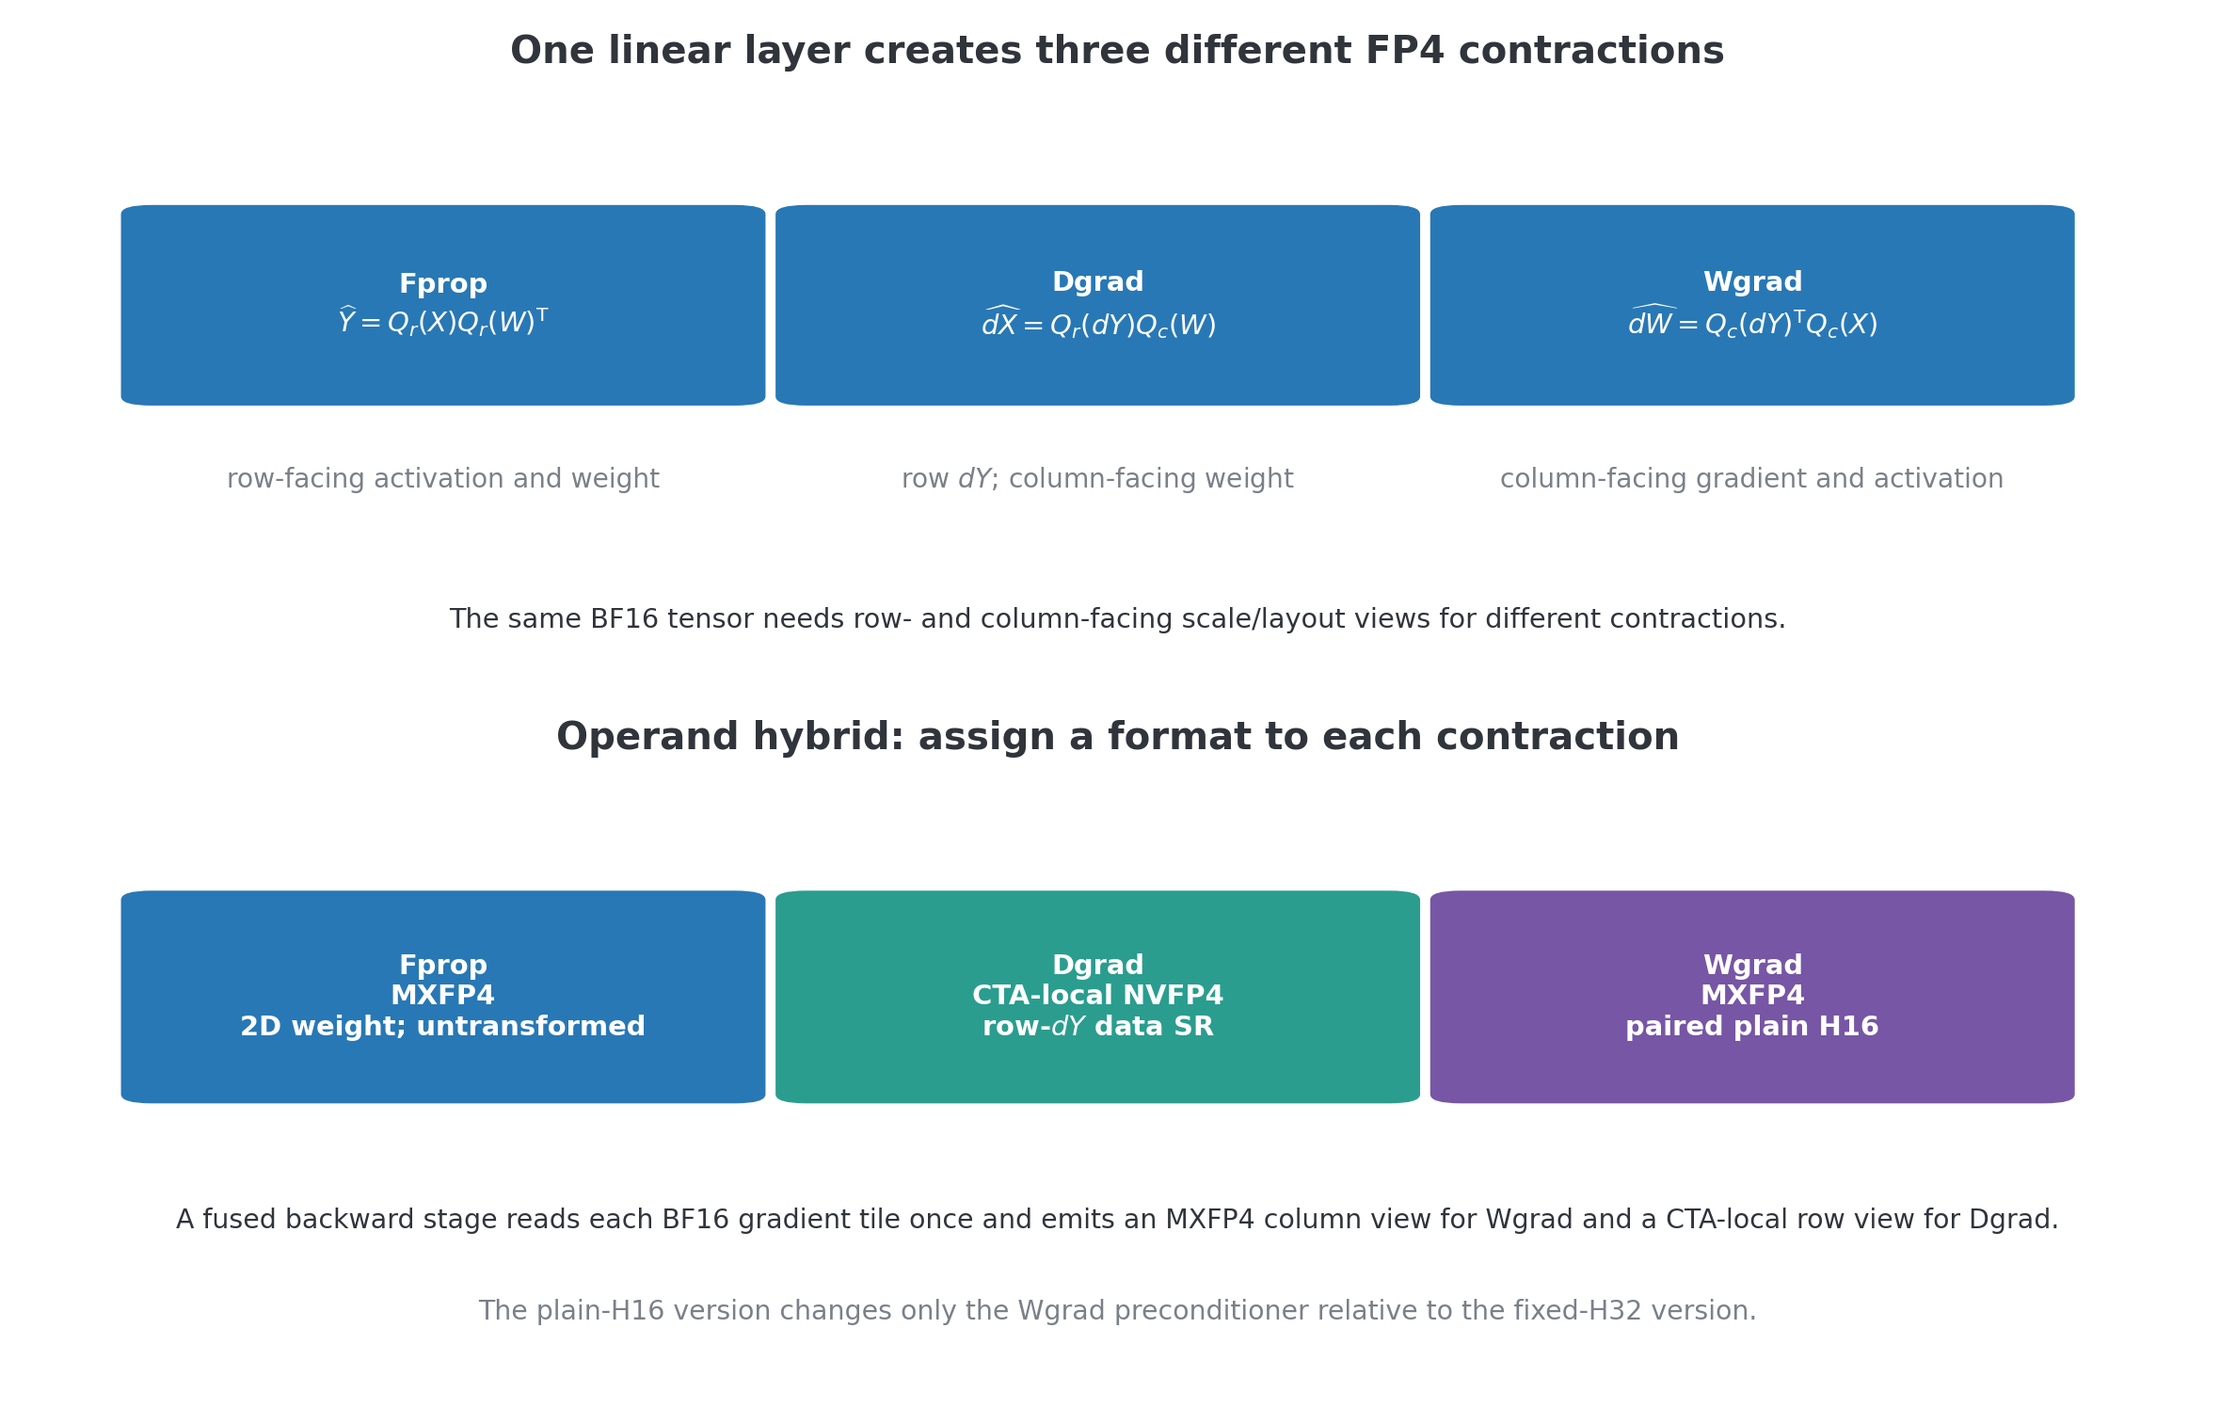
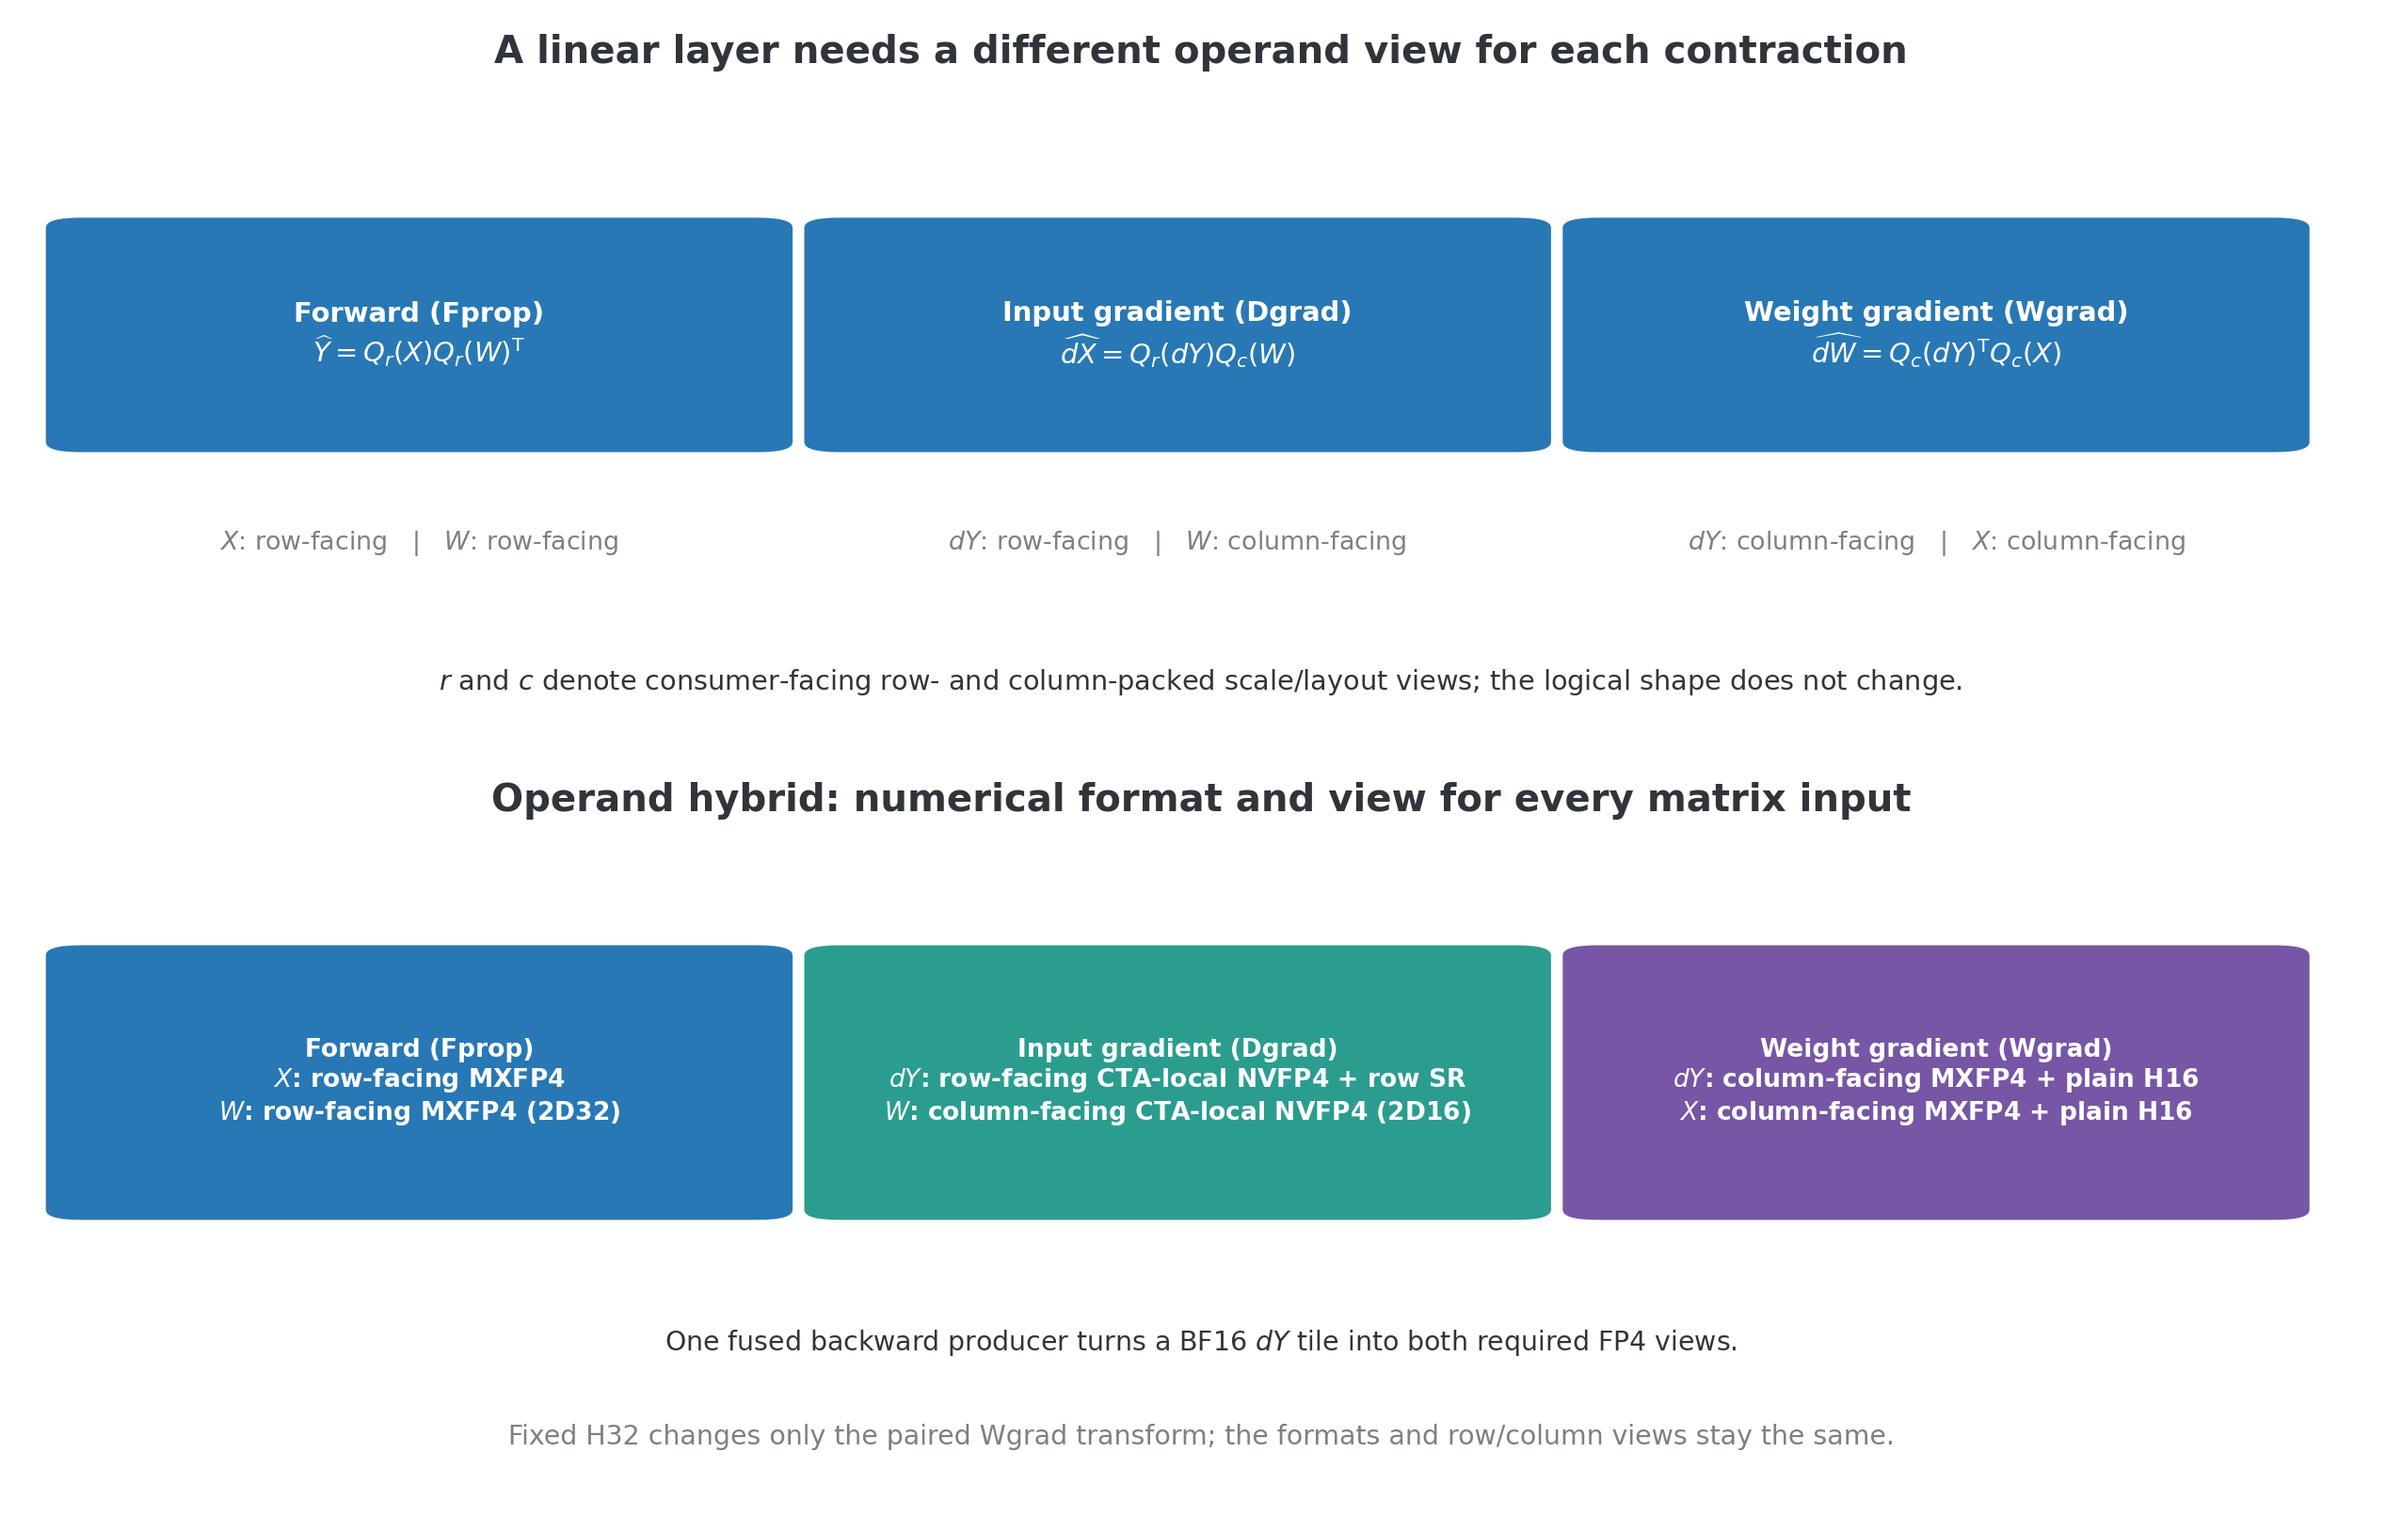
Clarify operand hybrid formats in report figure

diff --git a/docs/technical_report/figures/make_report_figures.py b/docs/technical_report/figures/make_report_figures.py
@@ -262,51 +262,92 @@ def make_format_execution_routes() -> None:
 
 def make_linear_operand_map() -> None:
     """Map quantized operands to Fprop, Dgrad, and Wgrad."""
-    fig, axes = plt.subplots(2, 1, figsize=(10.8, 6.8))
+    fig, axes = plt.subplots(2, 1, figsize=(11.6, 7.4))
     top, bottom = axes
     for ax in axes:
         ax.set_xlim(0, 1)
         ax.set_ylim(0, 1)
         ax.axis("off")
 
-    top.set_title("One linear layer creates three different FP4 contractions")
+    top.set_title("A linear layer needs a different operand view for each contraction")
     columns = [
-        (0.02, "Fprop", "$\\widehat{Y}=Q_r(X)Q_r(W)^{\\mathsf{T}}$", "row-facing activation and weight"),
-        (0.345, "Dgrad", "$\\widehat{dX}=Q_r(dY)Q_c(W)$", "row $dY$; column-facing weight"),
-        (0.67, "Wgrad", "$\\widehat{dW}=Q_c(dY)^{\\mathsf{T}}Q_c(X)$", "column-facing gradient and activation"),
+        (
+            0.02,
+            "Forward (Fprop)",
+            "$\\widehat{Y}=Q_r(X)Q_r(W)^{\\mathsf{T}}$",
+            "$X$: row-facing   |   $W$: row-facing",
+        ),
+        (
+            0.345,
+            "Input gradient (Dgrad)",
+            "$\\widehat{dX}=Q_r(dY)Q_c(W)$",
+            "$dY$: row-facing   |   $W$: column-facing",
+        ),
+        (
+            0.67,
+            "Weight gradient (Wgrad)",
+            "$\\widehat{dW}=Q_c(dY)^{\\mathsf{T}}Q_c(X)$",
+            "$dY$: column-facing   |   $X$: column-facing",
+        ),
     ]
     for x, title, equation, note in columns:
-        _box(top, x, 0.48, 0.29, 0.30, title + "\n" + equation, BLUE)
-        top.text(x + 0.145, 0.33, note, ha="center", fontsize=9.2, color=MID)
+        _box(top, x, 0.46, 0.29, 0.32, title + "\n" + equation, BLUE)
+        top.text(x + 0.145, 0.30, note, ha="center", fontsize=8.8, color=MID)
     top.text(
         0.50,
-        0.10,
-        "The same BF16 tensor needs row- and column-facing scale/layout views for different contractions.",
+        0.09,
+        "$r$ and $c$ denote consumer-facing row- and column-packed scale/layout views; the logical shape does not change.",
         ha="center",
         fontsize=9.4,
         color=DARK,
     )
 
-    bottom.set_title("Operand hybrid: assign a format to each contraction")
+    bottom.set_title("Operand hybrid: numerical format and view for every matrix input")
     hybrid = [
-        (0.02, "Fprop", "MXFP4\n2D weight; untransformed", BLUE),
-        (0.345, "Dgrad", "CTA-local NVFP4\nrow-$dY$ data SR", TEAL),
-        (0.67, "Wgrad", "MXFP4\npaired plain H16", PURPLE),
+        (
+            0.02,
+            "Forward (Fprop)",
+            "$X$: row-facing MXFP4\n$W$: row-facing MXFP4 (2D32)",
+            BLUE,
+        ),
+        (
+            0.345,
+            "Input gradient (Dgrad)",
+            "$dY$: row-facing CTA-local NVFP4 + row SR\n"
+            "$W$: column-facing CTA-local NVFP4 (2D16)",
+            TEAL,
+        ),
+        (
+            0.67,
+            "Weight gradient (Wgrad)",
+            "$dY$: column-facing MXFP4 + plain H16\n"
+            "$X$: column-facing MXFP4 + plain H16",
+            PURPLE,
+        ),
     ]
     for x, title, body, color in hybrid:
-        _box(bottom, x, 0.46, 0.29, 0.32, title + "\n" + body, color)
+        _box(
+            bottom,
+            x,
+            0.43,
+            0.29,
+            0.38,
+            title + "\n" + body,
+            color,
+            font_size=8.7,
+        )
     bottom.text(
         0.50,
-        0.24,
-        "A fused backward stage reads each BF16 gradient tile once and emits an MXFP4 column view for Wgrad and a CTA-local row view for Dgrad.",
+        0.22,
+        "One fused backward producer turns a BF16 $dY$ tile into both required FP4 views.",
         ha="center",
         fontsize=9.3,
         color=DARK,
     )
     bottom.text(
         0.50,
-        0.09,
-        "The plain-H16 version changes only the Wgrad preconditioner relative to the fixed-H32 version.",
+        0.08,
+        "Fixed H32 changes only the paired Wgrad transform; the formats and row/column views stay the same.",
         ha="center",
         fontsize=9.3,
         color=MID,

diff --git a/docs/technical_report/sections/02_formats.tex b/docs/technical_report/sections/02_formats.tex
@@ -349,12 +349,17 @@ column-facing representations to the three contractions.
 \begin{figure}[H]
   \centering
   \includegraphics[width=0.97\textwidth]{figures/fp4_linear_operand_hybrid.png}
-  \caption{Contraction-specific layouts and the plain-H16 operand-wise hybrid.
-  Top: Fprop, Dgrad, and Wgrad require distinct row- and column-facing views.
-  Bottom: the hybrid assigns MXFP4 to Fprop/Wgrad and CTA-local NVFP4 with
-  row-$dY$ SR to Dgrad; one fused backward stage emits both representations
-  from the BF16 gradient tile. Plain H16 uses no sign flips. The fixed-H32 variant
-  keeps this format map and changes only the paired Wgrad preconditioner.}
+  \caption{Formats and packed views for the plain-H16 operand hybrid. Here
+  $r$ and $c$ denote the consumer-facing row- and column-packed scale/layout
+  representations; they do not change a tensor's logical shape. Top: Fprop
+  consumes row-facing $X$ and $W$, Dgrad consumes row-facing $dY$ and
+  column-facing $W$, and Wgrad consumes column-facing $dY$ and $X$. Bottom:
+  Fprop uses MXFP4 $X_r$ and 2D32 $W_r$; Dgrad uses CTA-local NVFP4
+  $dY_r$ with row stochastic rounding (SR) and 2D16 $W_c$; Wgrad uses MXFP4
+  $dY_c$ and $X_c$ with paired plain-H16 preconditioning. One fused backward
+  producer emits both $dY$ representations from the BF16 tile. Wgrad does not
+  read $W$ because it produces $dW$. Plain H16 has no sign flips; fixed H32
+  changes only the paired Wgrad preconditioner.}
   \label{fig:linear-operand-map}
 \end{figure}
 \FloatBarrier

diff --git a/docs/technical_report/sections/05_results.tex b/docs/technical_report/sections/05_results.tex
@@ -79,9 +79,7 @@ display-only fit described below.
   observations recorded at the same step as BF16. The dashed
   custom-global-\nvfp{} line is a smoothed visual guide through those sparse
   observations, not additional measurements. Appendix~\ref{app:reproducibility}
-  records the surviving data sources. The 27/5 depth hybrid
-  joins three logged training segments at exact checkpoint boundaries, with
-  no interpolated values.}
+  records the surviving data sources.}
   \label{fig:llama8b-loss}
 \end{figure}
 
@@ -92,8 +90,7 @@ the late loss separation at the same scale without extrapolating any route.
   \centering
   \includegraphics[width=0.98\textwidth]{figures/llama8b_160b_training_loss_zoom.png}
   \caption{Training loss from 120B to 160B tokens. Diamonds mark exact logged
-  endpoints. The 27/5 curve uses its complete logged history without
-  interpolation. As in Figure~\ref{fig:llama8b-loss}, the late
+  endpoints. As in Figure~\ref{fig:llama8b-loss}, the late
   custom-global-\nvfp{} markers are exact observations and the dashed curve is
   a smoothed visual guide, not additional measurements.}
   \label{fig:llama8b-loss-zoom}

diff --git a/docs/technical_report/sections/01_summary.tex b/docs/technical_report/sections/01_summary.tex
@@ -59,10 +59,9 @@ established FP4 practice. We contribute:
         comprises matched throughput probes, trajectories through 160B
         training tokens, checkpoint-matched validation loss on a fixed
         external data stream, and
-        downstream evaluation of the complete recipes.
-
-  \item \emph{Reproducible release.} We release the training and
-        evaluation code, pinned kernel sources, complete recipe ledger,
-        publication data, and figure builders. Appendix~\ref{app:code-release}
-        describes the repository and its reproducibility contract.
+        downstream evaluation of the complete recipes. We release the
+        training and evaluation code, pinned kernel sources, complete recipe
+        ledger, publication data, and figure builders at
+        \url{https://github.com/MrHuff/mfu-fp4-training};
+        Appendix~\ref{app:code-release} describes its reproducibility contract.
 \end{itemize}
